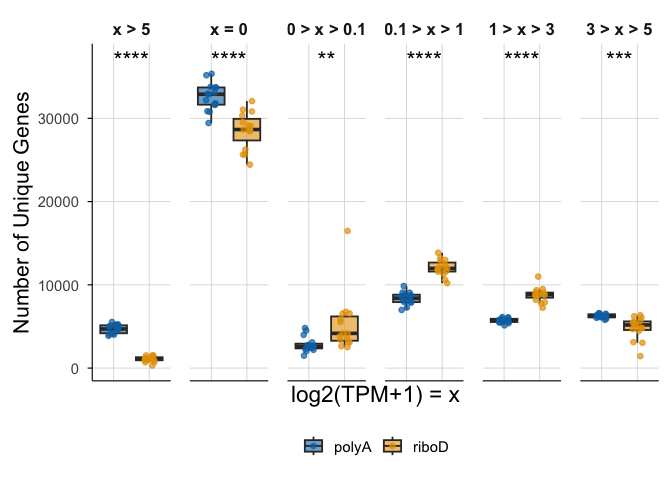
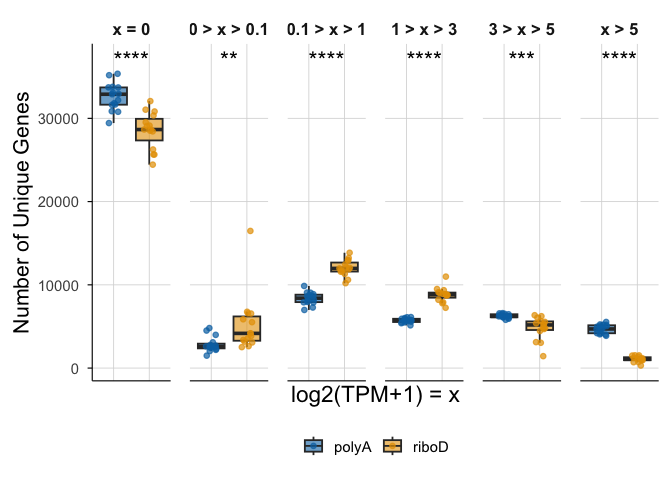
misc changes to fig1

diff --git a/Fig_1/Fig1_all/Fig1_all.md b/Fig_1/Fig1_all/Fig1_all.md
@@ -217,6 +217,11 @@ theme_1d <- function(base_size = 14) {
 ```
 
 ``` r
+combined_counts_1D <- combined_counts_1D %>% mutate(Bin = fct_inorder(Bin))
+sig_bins_all_1D <- sig_bins_all_1D %>% mutate(Bin = fct_inorder(Bin))
+
+
+
 facet_labels <- c(
   "0" = "x = 0",
   "0-0.09" = "0 > x > 0.1",
@@ -228,13 +233,24 @@ facet_labels <- c(
 
 # List of diseases
 diseases <- unique(combined_counts_1D$Disease)
-
-max_y <- max(combined_counts_1D$Count, na.rm = TRUE)
 ```
 
 ``` r
+scale_fill_compendia <- function() {
+  scale_fill_manual(values = c(
+    "polyA" = "#0072B2",  # blue
+    "riboD" = "#E69F00"   # yellow
+  ))
+}
+scale_color_compendia <- function() {
+  scale_color_manual(values = c( 
+    "polyA" = "#0072B2",  # blue
+    "riboD" = "#E69F00"   # yellow
+    ))
+  }
+
 # y-position for stars
-y_star <- max(combined_counts_1D$Count, na.rm = TRUE) * 1.05
+y_star_1D <- max(combined_counts_1D$Count, na.rm = TRUE) * 1.05
 
 Fig1D_SS <- ggplot(combined_counts_1D, aes(x = Compendia, y = Count, fill = Compendia)) +
     geom_boxplot(outlier.shape = NA, alpha = 0.6,
@@ -246,7 +262,7 @@ Fig1D_SS <- ggplot(combined_counts_1D, aes(x = Compendia, y = Count, fill = Comp
     # ---- ADD STARS ABOVE EACH FACET ----
     geom_text(
       data = sig_bins_all_1D,
-      aes(x = 1.5, y = y_star, label = stars_adj),   # x = 1.5 centers between polyA/riboD
+      aes(x = 1.5, y = y_star_1D, label = stars_adj),   # x = 1.5 centers between polyA/riboD
       inherit.aes = FALSE,
       size = 6
     ) +
@@ -352,7 +368,7 @@ star_df <- tibble(
   )
 
 # y-position for stars (slightly above max)
-y_star <- max(combined_long$Expression, na.rm = TRUE) * 1.05
+y_star_1E <- max(combined_long$Expression, na.rm = TRUE) * 1.05
 
 Fig1E_SS <- ggplot(combined_long, aes(x = Gene, y = Expression, fill = Compendia)) +
     geom_boxplot(
@@ -371,7 +387,7 @@ Fig1E_SS <- ggplot(combined_long, aes(x = Gene, y = Expression, fill = Compendia
     # ADD STARS
     geom_text(
       data = star_df,
-      aes(x = Gene, y = y_star, label = stars_adj),
+      aes(x = Gene, y = y_star_1E, label = stars_adj),
       inherit.aes = FALSE,
       size = 12
     ) +
@@ -533,7 +549,7 @@ nonpoly_gene <- "HIST1H1B"
 combined_medians_hugo_res <- combined_medians_hugo_res %>%
   mutate(
     label = case_when(
-      Gene == poly_gene[Disease] ~ Gene,
+      Gene == poly_gene ~ Gene,
       Gene == nonpoly_gene ~ Gene,            # HIST1H1B + median ratio gene
       TRUE ~ NA_character_
     )
@@ -596,7 +612,7 @@ Fig1G_SS <- ggplot(combined_medians_hugo_res, aes(x = polyA_medians, y = riboD_m
 Fig1G_SS
 ```
 
-    Warning: Removed 60497 rows containing missing values or values outside the scale range
+    Warning: Removed 60496 rows containing missing values or values outside the scale range
     (`geom_text_repel()`).
 
 ![](Fig1_all_files/figure-commonmark/Fig1G-1.png)
@@ -700,7 +716,7 @@ Fig1_all <- plot_grid(
     Warning: Removed 29257 rows containing non-finite outside the scale range
     (`stat_bin()`).
 
-    Warning: Removed 60497 rows containing missing values or values outside the scale range
+    Warning: Removed 60496 rows containing missing values or values outside the scale range
     (`geom_text_repel()`).
 
 ``` r
